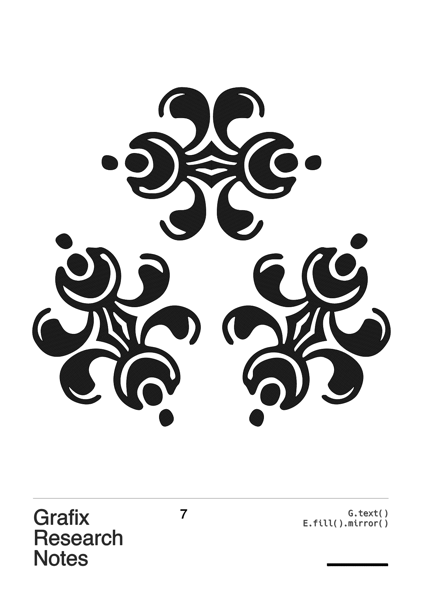
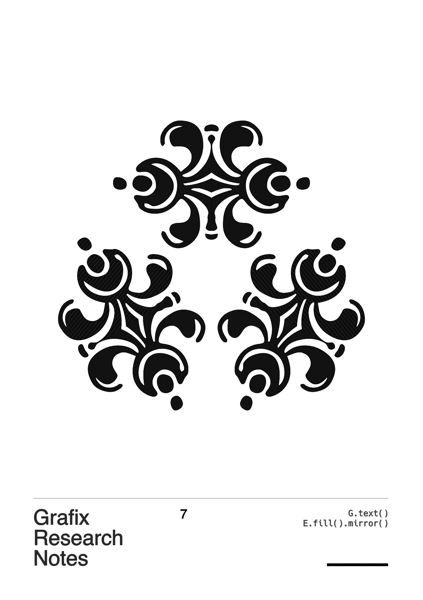
📝

Changed region(s): [[0.0615, 0.12, 0.922, 0.72]]

diff --git a/sketch/readme/grn/7.py b/sketch/readme/grn/7.py
@@ -19,8 +19,8 @@ def draw(t):
         line_height=1.2,
         use_bounding_box=False,
         quality=0.5,
-        center=(75.824, 67.58200000000001, 0.0),
-        scale=67.526,
+        center=(75.824, 75.824, 0.0),
+        scale=56.186,
     )
 
     e = (
@@ -51,7 +51,7 @@ def draw(t):
             activate=True,
             n_mirror=3,
             cx=74.0,
-            cy=95.876,
+            cy=96.907,
             source_positive_x=True,
             source_positive_y=True,
             show_planes=False,

diff --git a/sketch/readme/grn/2.py b/sketch/readme/grn/2.py
@@ -11,7 +11,7 @@ def draw(t):
         show_layout=False,
         layout_color_rgb255=(191, 191, 191),
         number_text="2",
-        explanation_text="G.text()\nE.fill()",
+        explanation_text="G.text()\nG.text()\nG.text()\nG.text()\nE.fill()",
         template_color_rgb255=(0, 0, 0),
     )
 

diff --git a/sketch/readme/grn/4.py b/sketch/readme/grn/4.py
@@ -12,6 +12,7 @@ def draw(t):
         layout_color_rgb255=(191, 191, 191),
         number_text="4",
         explanation_text="G.sphere()\nE.rotate().extrude()",
+        explanation_density=100.0,
         template_color_rgb255=(0, 0, 0),
     )
 
